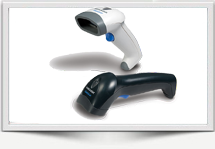
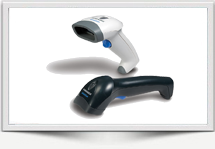
fix frames and images

diff --git a/Techno Print Co/style.css b/Techno Print Co/style.css
@@ -947,13 +947,13 @@ div.textframe .text-container{
 }
 .container-banner-subpro .container .scanner .frame-a1 .frame1{
 	min-height: 280px;
-	background-image:url('images/at506-small.png');
+	background-image:url('images/at506-big.png');
 	background-repeat:no-repeat;
 	background-position: top left;
 }
 .container-banner-subpro .container .scanner .frame-a1 .frame2{
 	min-height: 280px;
-	background-image:url('images/datalogic-i-big.png');
+	background-image:url('images/datalogic-i.png');
 	background-repeat:no-repeat;
 	background-position: top right;
 }
